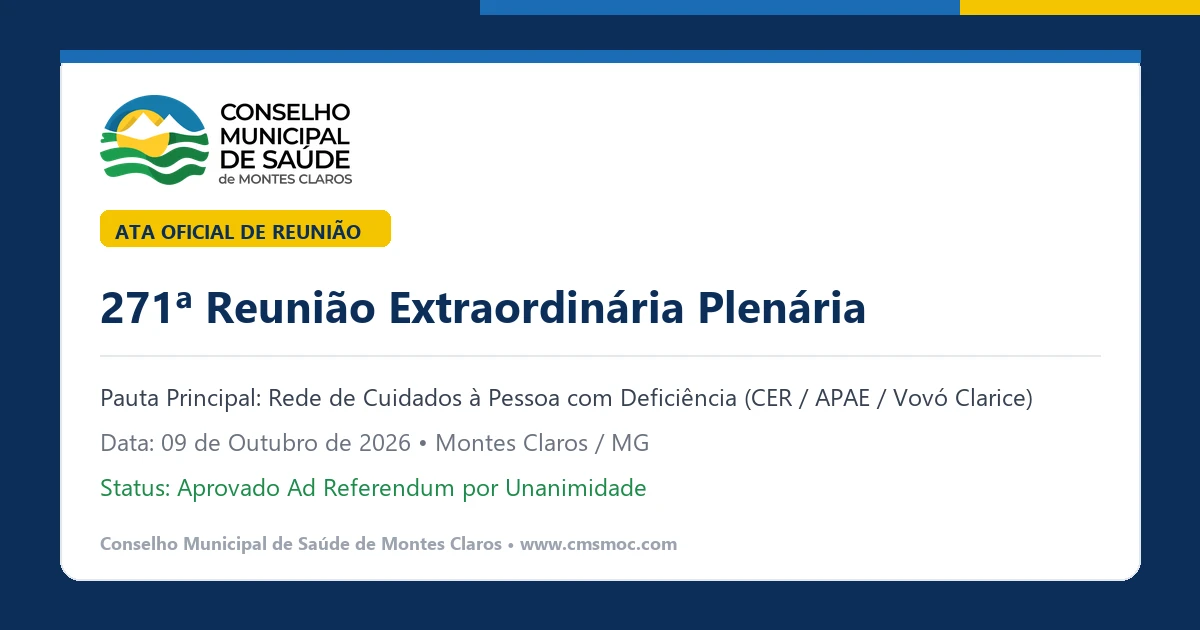
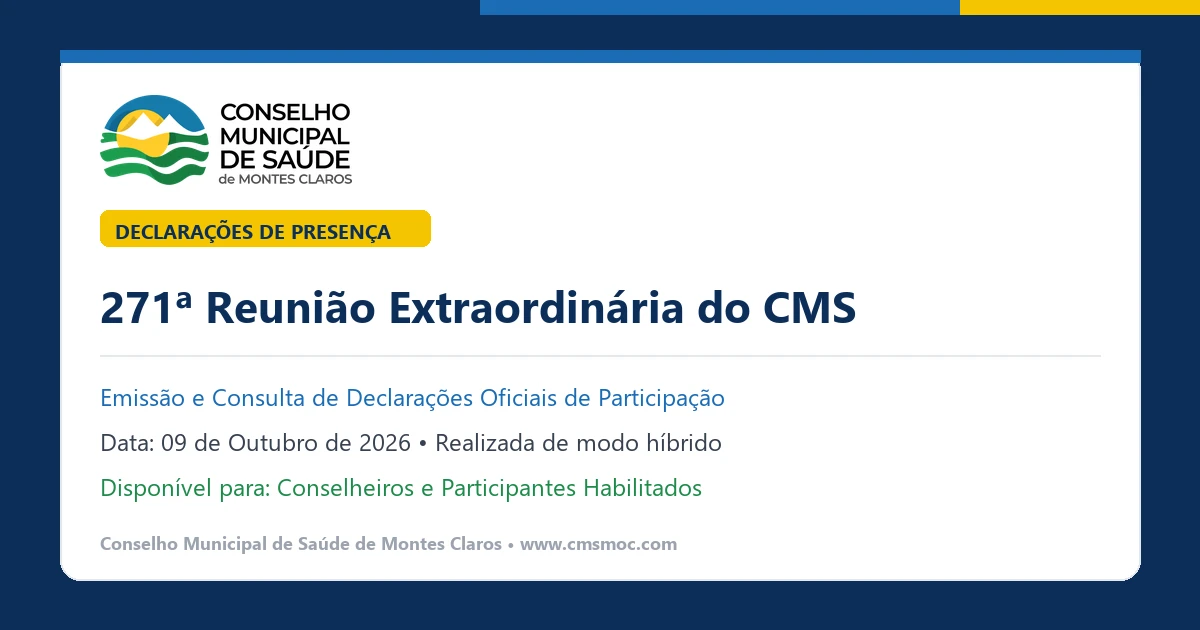
feat(271): substitui 271.html pelo portal de declarações com busca, atualiza thumb_271.webp e agy-context

diff --git a/271.html b/271.html
@@ -1,15 +1,15 @@
-<!DOCTYPE html>
-<html lang="pt-BR">
-<head>
-    <meta charset="UTF-8">
-    <meta name="viewport" content="width=device-width, initial-scale=1.0">
-    <title>Ata da 271ª Extraordinária Plenária - CMS Montes Claros</title>
-    
+
+    <!DOCTYPE html>
+    <html lang="pt-BR">
+    <head>
+      <meta charset="UTF-8">
+      <meta name="viewport" content="width=device-width, initial-scale=1.0">
+      <title>Declarações - 271ª Reunião Extraordinária do CMS - Montes Claros</title>
     <!-- Metadados de Compartilhamento (Open Graph / WhatsApp / Facebook) -->
-    <meta property="og:type" content="article">
+    <meta property="og:type" content="website">
     <meta property="og:url" content="https://www.cmsmoc.com/271.html">
-    <meta property="og:title" content="Ata da 271ª Extraordinária Plenária - CMS Montes Claros">
-    <meta property="og:description" content="Ata Oficial da 271ª Reunião Extraordinária Plenária do Conselho Municipal de Saúde de Montes Claros/MG. Deliberação sobre repasses para a Rede de Cuidados à Pessoa com Deficiência.">
+    <meta property="og:title" content="Declarações - 271ª Reunião Extraordinária do CMS - Montes Claros">
+    <meta property="og:description" content="Consulte e baixe sua declaração oficial de participação na 271ª Reunião Extraordinária do CMS Montes Claros (09 de outubro de 2026).">
     <meta property="og:image" content="https://www.cmsmoc.com/thumb_271.webp">
     <meta property="og:image:type" content="image/webp">
     <meta property="og:image:width" content="1200">
@@ -18,70 +18,137 @@
     <!-- Metadados para Twitter/X -->
     <meta name="twitter:card" content="summary_large_image">
     <meta name="twitter:url" content="https://www.cmsmoc.com/271.html">
-    <meta name="twitter:title" content="Ata da 271ª Extraordinária Plenária - CMS Montes Claros">
-    <meta name="twitter:description" content="Ata Oficial da 271ª Reunião Extraordinária Plenária do Conselho Municipal de Saúde de Montes Claros/MG.">
+    <meta name="twitter:title" content="Declarações - 271ª Reunião Extraordinária do CMS - Montes Claros">
+    <meta name="twitter:description" content="Consulte e baixe sua declaração oficial de participação na 271ª Reunião Extraordinária do CMS Montes Claros.">
     <meta name="twitter:image" content="https://www.cmsmoc.com/thumb_271.webp">
-    <link rel="preconnect" href="https://fonts.googleapis.com">
-    <link rel="preconnect" href="https://fonts.gstatic.com" crossorigin>
-    <link href="https://fonts.googleapis.com/css2?family=Montserrat:wght@400;600;700;800&family=Open+Sans:wght@400;600;700&display=swap" rel="stylesheet">
-    <style>
-        :root { --cms-navy: #0D2E5A; --cms-blue: #1B6CB5; --cms-yellow: #F5C400; --cms-gray-light: #E5E7EB; --cms-gray-dark: #4B5563; --cms-ink: #111827; --font-d: 'Montserrat', sans-serif; --font-b: 'Open Sans', sans-serif; }
-        * { box-sizing: border-box; margin: 0; padding: 0; }
-        body { font-family: var(--font-b); color: var(--cms-ink); background-color: var(--cms-gray-light); line-height: 1.6; padding: 40px 20px; }
-        .cms-stripe { background: linear-gradient(90deg, var(--cms-navy) 0%, var(--cms-navy) 40%, var(--cms-blue) 40%, var(--cms-blue) 80%, var(--cms-yellow) 80%, var(--cms-yellow) 100%); height: 10px; width: 100%; position: absolute; top: 0; left: 0; }
-        .container { max-width: 900px; margin: 0 auto; background-color: #ffffff; box-shadow: 0 4px 20px rgba(0, 0, 0, 0.08); border-radius: 8px; overflow: hidden; border-top: 4px solid var(--cms-navy); position: relative; }
-        header { display: flex; flex-direction: column; align-items: center; justify-content: center; padding: 35px 40px; border-bottom: 2px solid var(--cms-gray-light); text-align: center; }
-        .header-logo-central { height: 130px; max-width: 100%; object-fit: contain; margin-bottom: 20px; }
-        .header-subtitle { font-family: var(--font-d); font-size: 0.95rem; font-weight: 600; color: var(--cms-gray-dark); text-transform: uppercase; letter-spacing: 1px; margin-bottom: 4px; }
-        .header-title { font-family: var(--font-d); font-size: 1.8rem; font-weight: 800; color: var(--cms-navy); text-transform: uppercase; margin-bottom: 4px; }
-        .content-section { padding: 40px; }
-        .ata-content { font-size: 1.05rem; text-align: justify; white-space: pre-wrap; margin-bottom: 30px; }
-        .signatures-section { margin-top: 50px; border-top: 2px solid var(--cms-gray-light); padding-top: 30px; display: flex; justify-content: space-around; gap: 40px; }
-        .signature-block { text-align: center; width: 40%; }
-        .signature-line { width: 100%; border-bottom: 1px solid var(--cms-gray-dark); margin-bottom: 8px; height: 40px; }
-        .signature-name { font-size: 0.85rem; font-weight: 700; color: var(--cms-navy); }
-        .signature-role { font-size: 0.75rem; color: var(--cms-gray-dark); font-weight: 600; text-transform: uppercase; }
-    </style>
-</head>
-<body>
-<div class="cms-stripe"></div>
-<div class="container">
-    <header>
-        <img src="https://raw.githubusercontent.com/cmsmoc/secretariaexecutiva/main/logo/cms00.png" alt="Logo CMSMOC" class="header-logo-central">
-        <div class="header-subtitle">Ata Oficial de Reunião</div>
-        <div class="header-title">271ª Reunião Extraordinária Plenária</div>
-    </header>
-    <div class="content-section">
-        <div class="ata-content"><strong>Ata da Ducentésima Septuagésima Primeira Reunião Extraordinária Plenária (271ª REP) do Conselho Municipal de Saúde de Montes Claros/MG.</strong>
 
-Aos nove dias do mês de outubro de 2026, com início às 09h57, sob a condução do Vice-Presidente Joel, teve início a 271ª REP. Inicialmente, Márcio justificou as ausências da Conselheira Maria Clara e do Secretário Eduardo, que participavam de outra agenda simultânea.
-
-<strong>Informes Iniciais:</strong> A Secretaria informou sobre o preenchimento da lista de presença e a realização de um seminário no final do ano. O Conselheiro Fernando cobrou um retorno sobre o andamento das pautas da reunião anterior, que estavam sem desfecho desde o ano passado. O Vice-Presidente Joel encaminhou a cobrança formalmente à Mesa Diretora.
-
-<strong>Pauta Principal – Rede da Pessoa com Deficiência:</strong> Às 10h19, o servidor Lucas iniciou a apresentação sobre a proposta de repasse de verbas (Resoluções SES/MG). Explicou que o valor será direcionado para melhorias nos serviços das instituições habilitadas (APAE, Capelo Gaivota, Vovó Clarice), contemplando materiais, manutenção e pagamento de pessoal. O Vice-Presidente Joel destacou a ausência de alguns representantes dessas entidades na plenária, ressaltando a necessidade de planos de trabalho transparentes e da prestação de contas dos gastos.
-
-O Conselheiro Farley concordou que, embora a pauta estivesse atrasada, é imprescindível que as organizações demonstrem como farão a execução. A Conselheira Anielly questionou sobre a disparidade no volume de usuários entre as entidades, perguntando como o Conselho poderia atuar para apoiar a demanda. Em resposta, Lucas esclareceu que os valores são regulamentados pelo Estado: a APAE (CER II) recebe valores fixos regulares, enquanto CERDI, Vovó Clarice e Capelo Gaivota dependem dos repasses federais e estaduais específicos discutidos na pauta.
-
-A referência técnica Ludmila, da Vovó Clarice, relatou uma situação crítica: as entidades possuem capacidade física para expansão, mas esbarram na escassez de neuropediatras e no fato de que os recursos extras têm prazo de validade. Ressaltou que existe atualmente uma <strong>demanda reprimida de mais de 1.000 pessoas</strong> aguardando acesso à rede, e que a aprovação do recurso em debate era urgente para evitar a desassistência.
-
-O Conselheiro Roberto levantou questionamentos diretos sobre os regimes de contratação dos funcionários das entidades e cobrou acesso pleno à execução da prestação de contas. O Conselheiro Farley orientou que o modelo de contratação foge à alçada imediata do município, pois se trata de prestação de serviços, mas recomendou que a Secretaria seja oficiada e que se crie uma Comissão de Avaliação no CMS.
-
-<strong>Deliberação e Encaminhamentos:</strong> Foi proposta a aprovação do repasse em caráter <em>Ad Referendum</em> devido ao caráter de urgência. Submetido à votação simbólica, o repasse foi <strong>aprovado por unanimidade</strong>. Foram registrados os seguintes encaminhamentos à Mesa Diretora: 1) Cobrança das pautas pendentes da reunião passada; 2) Atenção à sobrecarga de pautas em relação ao tempo (apontado por Roberta Cunha); 3) Expedição de ofício à Secretaria Municipal de Saúde solicitando acesso aos documentos de prestação de contas das entidades; e 4) Criação de Comissão Específica de Avaliação de Contratos e Contas dessas instituições.
-
-Nada mais havendo a se tratar, o Vice-Presidente Joel encerrou a reunião às 11h05.</div>
-        <div class="signatures-section">
-            <div class="signature-block">
-                <div class="signature-line"></div>
-                <div class="signature-name">FARLEY SINDEAUX RIBEIRO</div>
-                <div class="signature-role">Presidente do CMS</div>
-            </div>
-            <div class="signature-block">
-                <div class="signature-line"></div>
-                <div class="signature-name">EDUARDO LUIZ DA SILVA</div>
-                <div class="signature-role">Secretário Executivo</div>
-            </div>
+      <link href="https://fonts.googleapis.com/css2?family=Montserrat:wght@400;700;900&family=Open+Sans:wght@400;600&display=swap" rel="stylesheet">
+      <style>
+        body { font-family: 'Open Sans', sans-serif; background: #F7F8FA; padding: 40px 20px; text-align: center; color: #111827; margin: 0; }
+        .container { max-width: 900px; margin: 0 auto; }
+        .header { margin-bottom: 30px; }
+        .header img { height: 60px; margin-bottom: 20px; background: #0D2E5A; padding: 10px; border-radius: 8px; }
+        h1 { font-family: 'Montserrat', sans-serif; font-weight: 900; color: #0D2E5A; text-transform: uppercase; margin-bottom: 10px; font-size: 24px; }
+        .meta-info { font-size: 14px; color: #6B7280; margin-bottom: 30px; line-height: 1.5; }
+        
+        .search-box { width: 100%; max-width: 500px; padding: 16px 20px; font-size: 16px; border: 2px solid #1B6CB5; border-radius: 8px; margin: 0 auto 30px auto; display: block; outline: none; box-shadow: 0 4px 6px rgba(0,0,0,0.05); font-family: 'Open Sans', sans-serif; transition: 0.2s; box-sizing: border-box; }
+        .search-box:focus { border-color: #0D2E5A; box-shadow: 0 6px 12px rgba(13, 46, 90, 0.1); }
+        
+        .grid { display: grid; grid-template-columns: repeat(auto-fill, minmax(280px, 1fr)); gap: 15px; }
+        .link-card { background: white; border: 1px solid #E5E7EB; border-left: 4px solid #1B6CB5; padding: 15px; border-radius: 6px; text-decoration: none; color: #111827; font-size: 12px; font-weight: 700; display: flex; align-items: center; gap: 10px; text-align: left; transition: 0.2s; }
+        .link-card:hover { border-color: #1B6CB5; transform: translateY(-2px); box-shadow: 0 4px 12px rgba(0,0,0,0.05); }
+        .link-card svg { color: #1E8A4A; flex-shrink: 0; }
+        .hidden { display: none !important; }
+      </style>
+    </head>
+    <body>
+      <div class="container">
+        <div class="header">
+          <img src="https://cmsmoc.github.io/secretariaexecutiva/logo/logohwh.png" alt="CMS Montes Claros">
+          <h1>Declarações de Presença</h1>
+          <div class="meta-info">
+            <strong>271ª Reunião Extraordinária do CMS - Montes Claros</strong><br>
+            09 de outubro de 2026 no período matutino, &bull; realizada de modo híbrido
+          </div>
         </div>
-    </div>
-</div>
-</body>
-</html>
+        
+        <input type="text" id="searchInput" class="search-box" placeholder="🔍 Digite seu nome para buscar a declaração...">
+        
+        <div class="grid" id="linksGrid">
+      <a href="https://drive.google.com/file/d/1wsw1rawM2jN-YzrMFQ93MMOoElfcd5Nd/view?usp=drivesdk" target="_blank" class="link-card" data-nome="ANIELLY COSTA SILVA">
+        <svg width="20" height="20" fill="currentColor" viewBox="0 0 20 20"><path fill-rule="evenodd" d="M6 2a2 2 0 00-2 2v12a2 2 0 002 2h8a2 2 0 002-2V7.414A2 2 0 0015.414 6L12 2.586A2 2 0 0010.586 2H6zm5 6a1 1 0 10-2 0v3.586l-1.293-1.293a1 1 0 10-1.414 1.414l3 3a1 1 0 001.414 0l3-3a1 1 0 00-1.414-1.414L11 11.586V8z" clip-rule="evenodd"></path></svg>
+        ANIELLY COSTA SILVA
+      </a>
+      <a href="https://drive.google.com/file/d/1DiwvpqZMXVoHiw6qmROjpEjPGyY3lyNt/view?usp=drivesdk" target="_blank" class="link-card" data-nome="CLARICE RIBEIRO DE OLIVEIRA MATOS">
+        <svg width="20" height="20" fill="currentColor" viewBox="0 0 20 20"><path fill-rule="evenodd" d="M6 2a2 2 0 00-2 2v12a2 2 0 002 2h8a2 2 0 002-2V7.414A2 2 0 0015.414 6L12 2.586A2 2 0 0010.586 2H6zm5 6a1 1 0 10-2 0v3.586l-1.293-1.293a1 1 0 10-1.414 1.414l3 3a1 1 0 001.414 0l3-3a1 1 0 00-1.414-1.414L11 11.586V8z" clip-rule="evenodd"></path></svg>
+        CLARICE RIBEIRO DE OLIVEIRA MATOS
+      </a>
+      <a href="https://drive.google.com/file/d/16HurElIupe-_HTac64Tsne16b9AXC6mN/view?usp=drivesdk" target="_blank" class="link-card" data-nome="CLEITA PINHEIRO DE ALMEIDA">
+        <svg width="20" height="20" fill="currentColor" viewBox="0 0 20 20"><path fill-rule="evenodd" d="M6 2a2 2 0 00-2 2v12a2 2 0 002 2h8a2 2 0 002-2V7.414A2 2 0 0015.414 6L12 2.586A2 2 0 0010.586 2H6zm5 6a1 1 0 10-2 0v3.586l-1.293-1.293a1 1 0 10-1.414 1.414l3 3a1 1 0 001.414 0l3-3a1 1 0 00-1.414-1.414L11 11.586V8z" clip-rule="evenodd"></path></svg>
+        CLEITA PINHEIRO DE ALMEIDA
+      </a>
+      <a href="https://drive.google.com/file/d/1Nq-pM6rV-A3yhOFKrEWngESGdZDvgnfs/view?usp=drivesdk" target="_blank" class="link-card" data-nome="DANIELLE GOMES SOUSA FERNANDES">
+        <svg width="20" height="20" fill="currentColor" viewBox="0 0 20 20"><path fill-rule="evenodd" d="M6 2a2 2 0 00-2 2v12a2 2 0 002 2h8a2 2 0 002-2V7.414A2 2 0 0015.414 6L12 2.586A2 2 0 0010.586 2H6zm5 6a1 1 0 10-2 0v3.586l-1.293-1.293a1 1 0 10-1.414 1.414l3 3a1 1 0 001.414 0l3-3a1 1 0 00-1.414-1.414L11 11.586V8z" clip-rule="evenodd"></path></svg>
+        DANIELLE GOMES SOUSA FERNANDES
+      </a>
+      <a href="https://drive.google.com/file/d/1yC43Azt9YVtmbtPIPNN3dBEBxirU6mfa/view?usp=drivesdk" target="_blank" class="link-card" data-nome="FARLEY SINDEAUX RIBEIRO">
+        <svg width="20" height="20" fill="currentColor" viewBox="0 0 20 20"><path fill-rule="evenodd" d="M6 2a2 2 0 00-2 2v12a2 2 0 002 2h8a2 2 0 002-2V7.414A2 2 0 0015.414 6L12 2.586A2 2 0 0010.586 2H6zm5 6a1 1 0 10-2 0v3.586l-1.293-1.293a1 1 0 10-1.414 1.414l3 3a1 1 0 001.414 0l3-3a1 1 0 00-1.414-1.414L11 11.586V8z" clip-rule="evenodd"></path></svg>
+        FARLEY SINDEAUX RIBEIRO
+      </a>
+      <a href="https://drive.google.com/file/d/17cDHLjWfW38tJkrLDXbvEJecnDVckI_s/view?usp=drivesdk" target="_blank" class="link-card" data-nome="FERNANDO ANTÔNIO DIAS DE ANDRADE">
+        <svg width="20" height="20" fill="currentColor" viewBox="0 0 20 20"><path fill-rule="evenodd" d="M6 2a2 2 0 00-2 2v12a2 2 0 002 2h8a2 2 0 002-2V7.414A2 2 0 0015.414 6L12 2.586A2 2 0 0010.586 2H6zm5 6a1 1 0 10-2 0v3.586l-1.293-1.293a1 1 0 10-1.414 1.414l3 3a1 1 0 001.414 0l3-3a1 1 0 00-1.414-1.414L11 11.586V8z" clip-rule="evenodd"></path></svg>
+        FERNANDO ANTÔNIO DIAS DE ANDRADE
+      </a>
+      <a href="https://drive.google.com/file/d/1NYQCMwyCdbnVyLlFJrJWG3UBJR3M17Af/view?usp=drivesdk" target="_blank" class="link-card" data-nome="JOEL FRANCISCO BORGES">
+        <svg width="20" height="20" fill="currentColor" viewBox="0 0 20 20"><path fill-rule="evenodd" d="M6 2a2 2 0 00-2 2v12a2 2 0 002 2h8a2 2 0 002-2V7.414A2 2 0 0015.414 6L12 2.586A2 2 0 0010.586 2H6zm5 6a1 1 0 10-2 0v3.586l-1.293-1.293a1 1 0 10-1.414 1.414l3 3a1 1 0 001.414 0l3-3a1 1 0 00-1.414-1.414L11 11.586V8z" clip-rule="evenodd"></path></svg>
+        JOEL FRANCISCO BORGES
+      </a>
+      <a href="https://drive.google.com/file/d/1n8usrpPdPVQ_mbRQYNinU9BAmbsnEFpa/view?usp=drivesdk" target="_blank" class="link-card" data-nome="LUCAS FERREIRA RODRIGUES">
+        <svg width="20" height="20" fill="currentColor" viewBox="0 0 20 20"><path fill-rule="evenodd" d="M6 2a2 2 0 00-2 2v12a2 2 0 002 2h8a2 2 0 002-2V7.414A2 2 0 0015.414 6L12 2.586A2 2 0 0010.586 2H6zm5 6a1 1 0 10-2 0v3.586l-1.293-1.293a1 1 0 10-1.414 1.414l3 3a1 1 0 001.414 0l3-3a1 1 0 00-1.414-1.414L11 11.586V8z" clip-rule="evenodd"></path></svg>
+        LUCAS FERREIRA RODRIGUES
+      </a>
+      <a href="https://drive.google.com/file/d/1WBtm2pn4dcK3_yqQNflfj410parVjgs6/view?usp=drivesdk" target="_blank" class="link-card" data-nome="MARCELA BRANT">
+        <svg width="20" height="20" fill="currentColor" viewBox="0 0 20 20"><path fill-rule="evenodd" d="M6 2a2 2 0 00-2 2v12a2 2 0 002 2h8a2 2 0 002-2V7.414A2 2 0 0015.414 6L12 2.586A2 2 0 0010.586 2H6zm5 6a1 1 0 10-2 0v3.586l-1.293-1.293a1 1 0 10-1.414 1.414l3 3a1 1 0 001.414 0l3-3a1 1 0 00-1.414-1.414L11 11.586V8z" clip-rule="evenodd"></path></svg>
+        MARCELA BRANT
+      </a>
+      <a href="https://drive.google.com/file/d/1zVYVGL2xcMdRicUXx16433C1q-Kbs5kq/view?usp=drivesdk" target="_blank" class="link-card" data-nome="MÁRCIO CARDOSO SILVA">
+        <svg width="20" height="20" fill="currentColor" viewBox="0 0 20 20"><path fill-rule="evenodd" d="M6 2a2 2 0 00-2 2v12a2 2 0 002 2h8a2 2 0 002-2V7.414A2 2 0 0015.414 6L12 2.586A2 2 0 0010.586 2H6zm5 6a1 1 0 10-2 0v3.586l-1.293-1.293a1 1 0 10-1.414 1.414l3 3a1 1 0 001.414 0l3-3a1 1 0 00-1.414-1.414L11 11.586V8z" clip-rule="evenodd"></path></svg>
+        MÁRCIO CARDOSO SILVA
+      </a>
+      <a href="https://drive.google.com/file/d/1SnuS0vjB1DFQI14fKx372WvZzUl8OG_o/view?usp=drivesdk" target="_blank" class="link-card" data-nome="MYLLENA MONT ALTO OLIVEIRA">
+        <svg width="20" height="20" fill="currentColor" viewBox="0 0 20 20"><path fill-rule="evenodd" d="M6 2a2 2 0 00-2 2v12a2 2 0 002 2h8a2 2 0 002-2V7.414A2 2 0 0015.414 6L12 2.586A2 2 0 0010.586 2H6zm5 6a1 1 0 10-2 0v3.586l-1.293-1.293a1 1 0 10-1.414 1.414l3 3a1 1 0 001.414 0l3-3a1 1 0 00-1.414-1.414L11 11.586V8z" clip-rule="evenodd"></path></svg>
+        MYLLENA MONT ALTO OLIVEIRA
+      </a>
+      <a href="https://drive.google.com/file/d/1F-iWI2iJy7k98vlAPUbnv4RgFPh7-ojK/view?usp=drivesdk" target="_blank" class="link-card" data-nome="PATRICIA FERREIRA COSTA">
+        <svg width="20" height="20" fill="currentColor" viewBox="0 0 20 20"><path fill-rule="evenodd" d="M6 2a2 2 0 00-2 2v12a2 2 0 002 2h8a2 2 0 002-2V7.414A2 2 0 0015.414 6L12 2.586A2 2 0 0010.586 2H6zm5 6a1 1 0 10-2 0v3.586l-1.293-1.293a1 1 0 10-1.414 1.414l3 3a1 1 0 001.414 0l3-3a1 1 0 00-1.414-1.414L11 11.586V8z" clip-rule="evenodd"></path></svg>
+        PATRICIA FERREIRA COSTA
+      </a>
+      <a href="https://drive.google.com/file/d/1_Vf2zRjc_IRtyMh2ff8Wdh7ezGwy8r1D/view?usp=drivesdk" target="_blank" class="link-card" data-nome="PRISCILLA DURÃES DE CARVALHO">
+        <svg width="20" height="20" fill="currentColor" viewBox="0 0 20 20"><path fill-rule="evenodd" d="M6 2a2 2 0 00-2 2v12a2 2 0 002 2h8a2 2 0 002-2V7.414A2 2 0 0015.414 6L12 2.586A2 2 0 0010.586 2H6zm5 6a1 1 0 10-2 0v3.586l-1.293-1.293a1 1 0 10-1.414 1.414l3 3a1 1 0 001.414 0l3-3a1 1 0 00-1.414-1.414L11 11.586V8z" clip-rule="evenodd"></path></svg>
+        PRISCILLA DURÃES DE CARVALHO
+      </a>
+      <a href="https://drive.google.com/file/d/1mR6mILD692i_XhGygP0Jg9vPg6nYsFut/view?usp=drivesdk" target="_blank" class="link-card" data-nome="RICARDO SOARES DE OLIVEIRA">
+        <svg width="20" height="20" fill="currentColor" viewBox="0 0 20 20"><path fill-rule="evenodd" d="M6 2a2 2 0 00-2 2v12a2 2 0 002 2h8a2 2 0 002-2V7.414A2 2 0 0015.414 6L12 2.586A2 2 0 0010.586 2H6zm5 6a1 1 0 10-2 0v3.586l-1.293-1.293a1 1 0 10-1.414 1.414l3 3a1 1 0 001.414 0l3-3a1 1 0 00-1.414-1.414L11 11.586V8z" clip-rule="evenodd"></path></svg>
+        RICARDO SOARES DE OLIVEIRA
+      </a>
+      <a href="https://drive.google.com/file/d/15ZCzFt-Aa1DNBc406sAmT4XwzxhTewa3/view?usp=drivesdk" target="_blank" class="link-card" data-nome="ROBERTA CUNHA MOTA SANTOS">
+        <svg width="20" height="20" fill="currentColor" viewBox="0 0 20 20"><path fill-rule="evenodd" d="M6 2a2 2 0 00-2 2v12a2 2 0 002 2h8a2 2 0 002-2V7.414A2 2 0 0015.414 6L12 2.586A2 2 0 0010.586 2H6zm5 6a1 1 0 10-2 0v3.586l-1.293-1.293a1 1 0 10-1.414 1.414l3 3a1 1 0 001.414 0l3-3a1 1 0 00-1.414-1.414L11 11.586V8z" clip-rule="evenodd"></path></svg>
+        ROBERTA CUNHA MOTA SANTOS
+      </a>
+      <a href="https://drive.google.com/file/d/19hiq-xgGh5Te-t_piOGjgGOZk6zlq5rX/view?usp=drivesdk" target="_blank" class="link-card" data-nome="ROBERTO COELHO FERREIRA">
+        <svg width="20" height="20" fill="currentColor" viewBox="0 0 20 20"><path fill-rule="evenodd" d="M6 2a2 2 0 00-2 2v12a2 2 0 002 2h8a2 2 0 002-2V7.414A2 2 0 0015.414 6L12 2.586A2 2 0 0010.586 2H6zm5 6a1 1 0 10-2 0v3.586l-1.293-1.293a1 1 0 10-1.414 1.414l3 3a1 1 0 001.414 0l3-3a1 1 0 00-1.414-1.414L11 11.586V8z" clip-rule="evenodd"></path></svg>
+        ROBERTO COELHO FERREIRA
+      </a>
+      <a href="https://drive.google.com/file/d/1MPanSo1Rhf6ZUQHSWPTYL3ufa9hA4nhr/view?usp=drivesdk" target="_blank" class="link-card" data-nome="SARAH JULIANE MENDES CAPUCHINHO">
+        <svg width="20" height="20" fill="currentColor" viewBox="0 0 20 20"><path fill-rule="evenodd" d="M6 2a2 2 0 00-2 2v12a2 2 0 002 2h8a2 2 0 002-2V7.414A2 2 0 0015.414 6L12 2.586A2 2 0 0010.586 2H6zm5 6a1 1 0 10-2 0v3.586l-1.293-1.293a1 1 0 10-1.414 1.414l3 3a1 1 0 001.414 0l3-3a1 1 0 00-1.414-1.414L11 11.586V8z" clip-rule="evenodd"></path></svg>
+        SARAH JULIANE MENDES CAPUCHINHO
+      </a></div>
+        
+        <div id="noResults" class="hidden" style="margin-top: 30px; color: #DC2626; font-weight: bold; font-family: 'Montserrat', sans-serif; text-transform: uppercase;">
+          Nenhuma declaração encontrada com este nome.
+        </div>
+      </div>
+
+      <script>
+        document.getElementById('searchInput').addEventListener('input', function(e) {
+          const term = e.target.value.normalize("NFD").replace(/[\u0300-\u036f]/g, "").toUpperCase();
+          const cards = document.querySelectorAll('.link-card');
+          let hasVisible = false;
+          
+          cards.forEach(card => {
+            const nome = card.getAttribute('data-nome').normalize("NFD").replace(/[\u0300-\u036f]/g, "");
+            if (nome.includes(term)) {
+              card.classList.remove('hidden');
+              hasVisible = true;
+            } else {
+              card.classList.add('hidden');
+            }
+          });
+          
+          // CORREÇÃO: Esconde a mensagem se 'hasVisible' for Verdadeiro (tem cards aparecendo)
+          document.getElementById('noResults').classList.toggle('hidden', hasVisible);
+        });
+      </script>
+    </body>
+    </html>
+  
